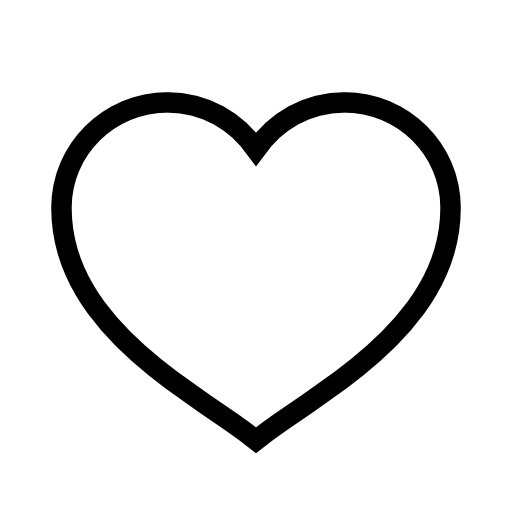
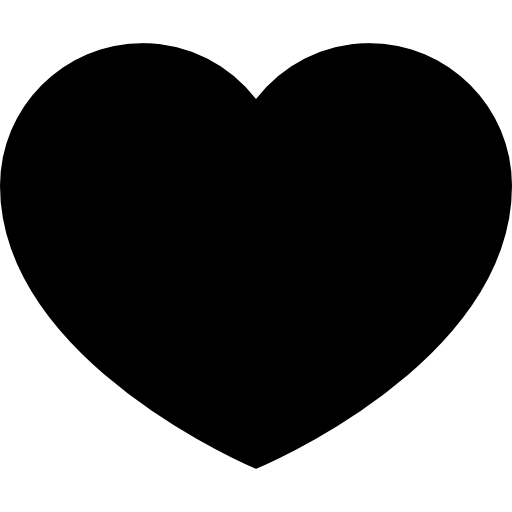
front-end for like button done

diff --git a/style.css b/style.css
@@ -410,3 +410,15 @@ form.comments
   background-color: white;
   display: flex;
 }
+
+.border-profile button.like {
+  border-radius: none;
+  border: none;
+  background-color: inherit;
+  cursor: pointer;
+  transition: 0.3s opacity, 0.3s transform;
+}
+.border-profile button.like:hover {
+  opacity: 0.6;
+  transform: scale(1.1);
+}

diff --git a/src/newsfeed.php b/src/newsfeed.php
@@ -54,6 +54,9 @@
          foreach($res0 as $key0)
          {
              $id = $key0['picture_name'];
+             $likes_sql = "SELECT * FROM user_likes WHERE picture_name='$id'";
+             $likes_qry = $conn->query($likes_sql);
+             $res_likes = $likes_qry->fetchAll(PDO::FETCH_ASSOC);
              ?>
                  <div class="middle-profile">
                      <div class="border-profile">
@@ -71,6 +74,13 @@
                             <div class="username"><?php echo "@" . $key0['picture_owner'];?></div>
                             <?php echo " " . $key0['created_at']?>
                             <img class="picture" src=<?php echo $key0['picture_path'];?>>
+
+                            <form class="likes" action="likes.php" method="post">
+                                <button  class="like" type="like" name="like" value="OK"><img src="../img/heart.png" width="18" alt="del"></button>
+                                <input type="hidden" name="picture_owner" value=<?php echo $key0['picture_owner'];?>>
+                                <input type="hidden" name="picture_name" value=<?php echo $key0['picture_name'];?>>
+                                <input type="hidden" name="logged_in_user" value=<?php echo $username;?>>
+                            </form>
 
                             <form class="comments" action="comments.php" method="post">
                                 <textarea class="comments" name="comments" placeholder=". . ."></textarea>

diff --git a/src/settings.php b/src/settings.php
@@ -151,7 +151,8 @@ else if (isset($_POST['delete_user']))
             $sql = "SELECT picture_path FROM user_pictures WHERE id_owner:='$user_id'";
             $qry = $conn->query($sql);
             $res = $qry->fetchAll(PDO::FETCH_ASSOC);
-            foreach($res[0] as $key)
+            print_r($res);
+            foreach($res as $key)
             {
                 $path = $key['picture_path'];
                 unlink($path);
